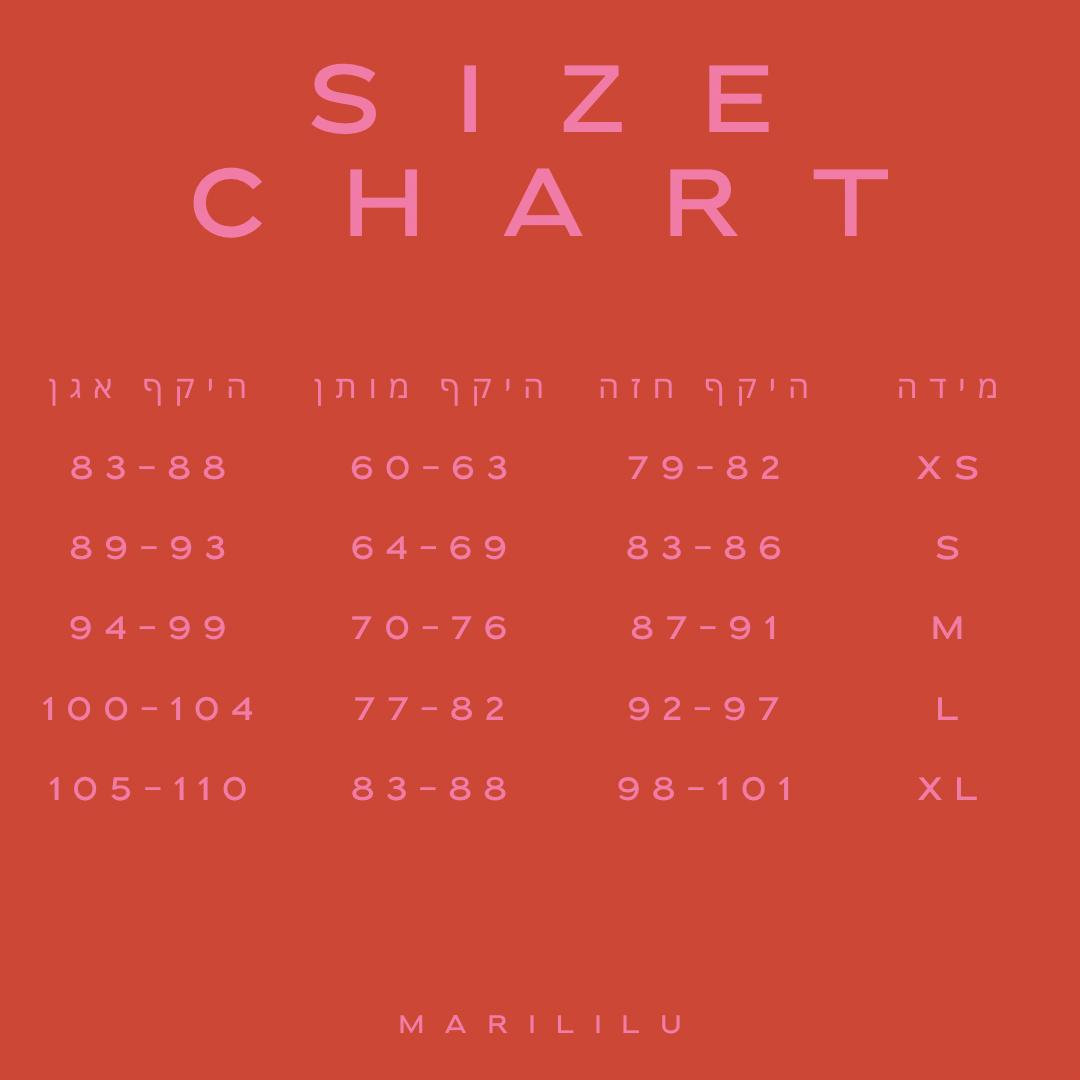
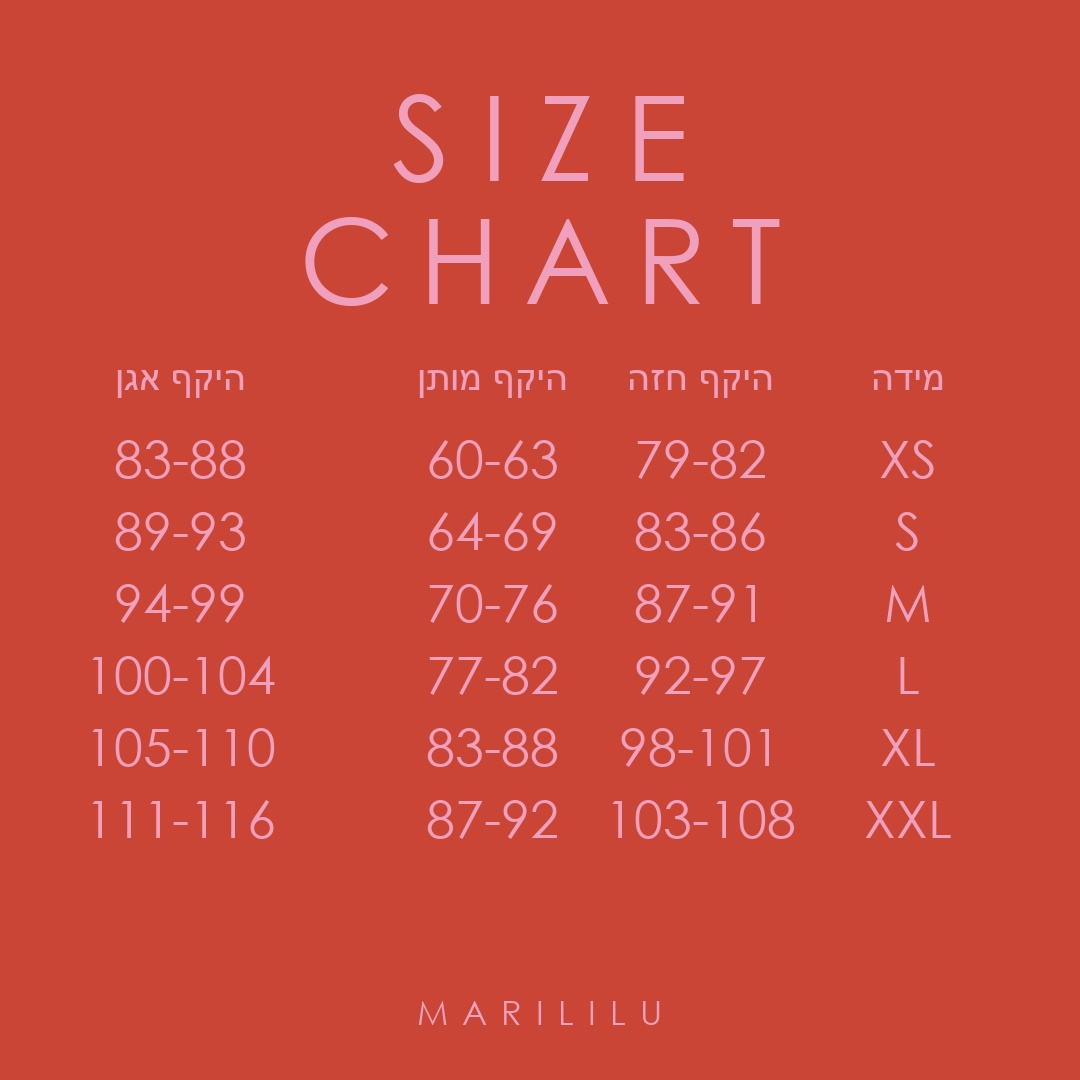
Generate branded size chart image with XXL row
Recreated Lihi's size chart (red bg, pink text, Century Gothic font,
MARILILU branding) using Pillow + python-bidi, adding the XXL row
(103-108 / 87-92 / 111-116). Removed the HTML XXL fallback row —
the image now covers all sizes XS–XXL.

diff --git a/index.html b/index.html
@@ -1750,10 +1750,7 @@
 <!-- Size Guide Modal -->
 <div class="size-guide-overlay" id="size-guide-overlay" onclick="if(event.target===this)closeSizeGuide()">
   <div class="size-guide-modal">
-    <img src="/imgs/size-chart.jpg" alt="טבלת מידות MARILILU" style="width:100%;border-radius:12px;display:block;margin-bottom:12px;" />
-    <div style="font-size:12px;color:var(--mahogany);background:var(--light-bg);border-radius:8px;padding:10px 12px;margin-bottom:10px;">
-      <strong>XXL</strong> — היקף חזה 103–108 · היקף מותן 87–92 · היקף אגן 111–116
-    </div>
+    <img src="/imgs/size-chart.jpg" alt="טבלת מידות MARILILU" style="width:100%;border-radius:12px;display:block;margin-bottom:14px;" />
     <div class="size-guide-note">* המידות בסנטימטרים. לבגד ים מותאם אישית נציגה תפנה אליך לאחר ההזמנה לוידוא מידות מדויקות.</div>
     <button class="size-guide-close" onclick="closeSizeGuide()">הבנתי, תודה!</button>
   </div>
